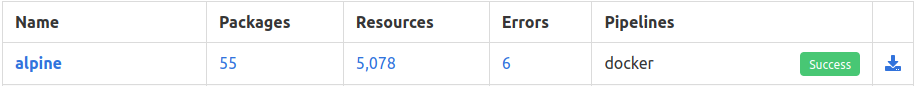
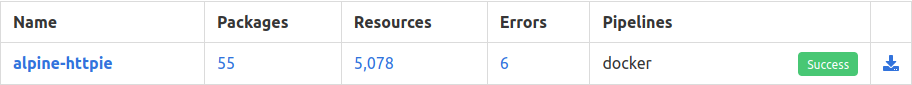
Update UI tutorial
* Add updated screenshots
      * Add a Deleting project section to the user interface chapter with screenshots
      * Add minor updates to the UI tutorials
      * Add a note about renaming a project

diff --git a/docs/tutorial-3.rst b/docs/tutorial-3.rst
@@ -33,7 +33,7 @@ Instructions
 ------------
 
 - From the homepage, click on the **"New Project"** button to create a new
-  project named ``alpine``. You will be directed to the **"Create a Project"**
+  project named ``alpine-httpie``. You will be directed to the **"Create a Project"**
   page where you need to fill in the new project's details.
 - Paste the input Docker image's URL,
   `docker://alpine/httpie <https://hub.docker.com/r/alpine/httpie/>`_,
@@ -58,11 +58,11 @@ Instructions
     pipeline in one operation, the process may take few minutes before it
     completes.
 
-The previous screenshot shows the ScanCode.io home screen with the new "alpine"
-project and other existing projects. The home screen also shows a summary of
-the number of **Packages**, **Code Resources**, and **Errors**—if any—discovered
-during the scan process. It also contains any **Pipelines** used and their
-execution status, i.e.:
+The previous screenshot shows the ScanCode.io home screen with the new
+"alpine-httpie" project and other existing projects. The home screen also shows
+a summary of the number of **Packages**, **Code Resources**, and
+**Errors**—if any—discovered during the scan process. It also contains any
+**Pipelines** used and their execution status, i.e.:
 
  - **Not started**
  - **Queued**
@@ -70,8 +70,8 @@ execution status, i.e.:
  - **Success**
  - **Failure**
 
-Plus, the ability to download the generated results in **JSON** and **Excel (XLSX)**
-file formats, covered in :ref:`output_files`.
+Plus, the ability to download the generated results in **JSON** and
+**Excel (XLSX)** file formats, covered in :ref:`output_files`.
 
 .. tip::
     Refer to the complementary :ref:`tutorial_4` page, to understand this

diff --git a/docs/tutorial-4.rst b/docs/tutorial-4.rst
@@ -4,13 +4,13 @@ Review Scan Results (Web UI)
 ============================
 
 This chapter is complementary to the :ref:`tutorial_3` tutorial, and the output
-shown here is the generated results of that tutorial's pipeline run.
+shown here is the generated results of the tutorial's pipeline run.
 The goal here is to guide you on how to understand and review your scan
 results using the ScanCode.io web interface.
 
 .. tip::
     As a perquisite, follow the :ref:`tutorial_3` tutorial to have a better
-    understanding of the results included here.
+    understanding of the information included here.
 
 .. image:: images/tutorial-4-project-list.png
 
@@ -51,8 +51,8 @@ on the **Packages** number field.
 Resources
 ---------
 Similar to **Packages**, the total number of discovered **Codebase Resources**
-is shown on both ScanCode.io homepage and the "alpine" project page. Clicking on
-this number reveals a detailed table for all found code resources.
+is shown on both ScanCode.io homepage and the "alpine-httpie" project page.
+Clicking on this number reveals a detailed table for all found code resources.
 
 Further, the project page offers a group of Doughnut charts that filter code
 resources by **Programming Language**, **Mime Type**, **Holder**, **Copyright**,

diff --git a/docs/user-interface.rst b/docs/user-interface.rst
@@ -53,6 +53,9 @@ Name
 
 To create a project, you must provide a unique name for the new project.
 
+.. warning::
+    A project name can't be changed or edited once the project has been created.
+
 Inputs
 ^^^^^^
 
@@ -99,3 +102,18 @@ the pipeline execution, or download the output files.
 .. note::
     Please refer to the :ref:`output_files` page for more details about your
     scan results.
+
+Deleting a Project
+------------------
+
+If any of your projects is no longer needed, you can delete it from the
+project's details page. Deleting old projects also makes navigating existing
+projects easier. Simply to delete any project, click on the trash icon under
+the project's name.
+
+.. image:: images/user-interface-5.png
+
+.. warning::
+    Projects get permanently deleted and cannot be restored.
+
+.. image:: images/user-interface-6.png
